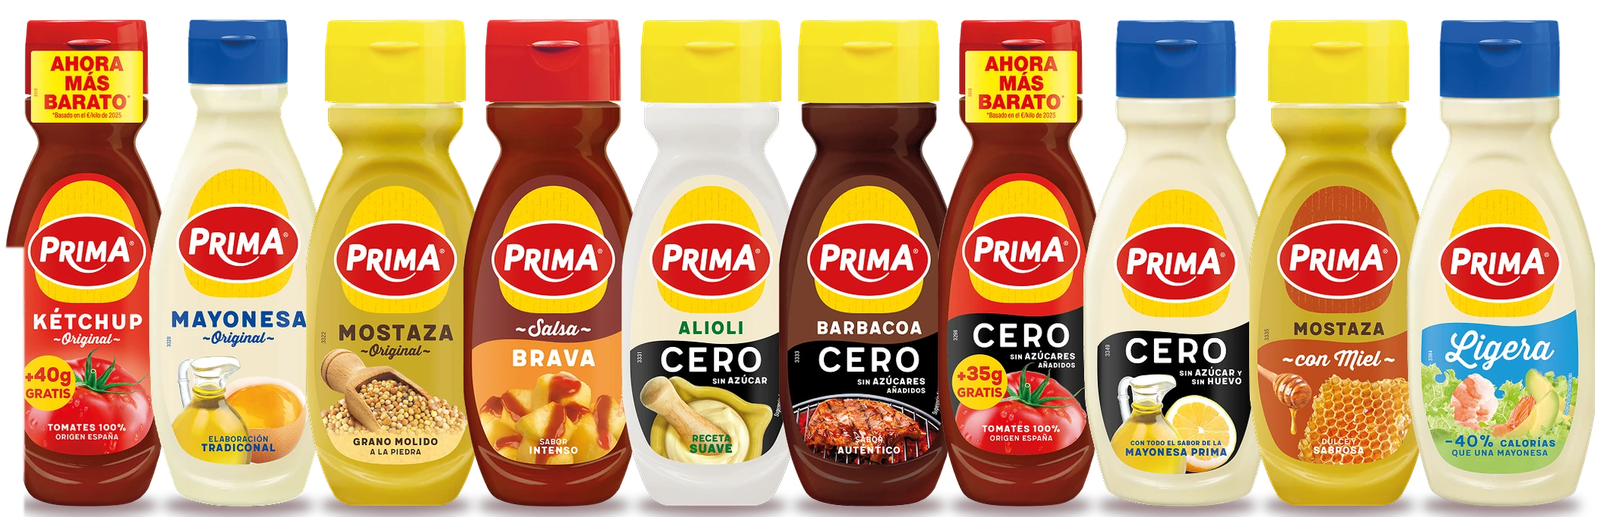
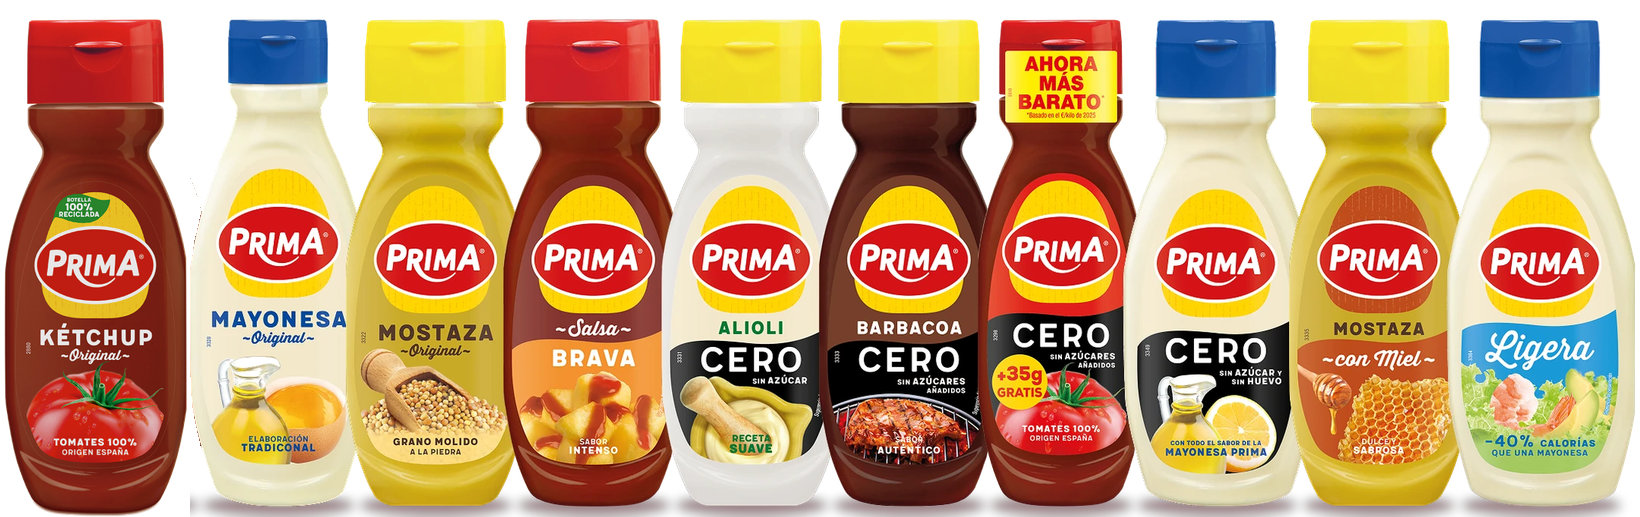
Despensa: el bote de kétchup Prima de la gama ya sale entero (foto oficial de Prima en lugar del bote cortado)
Claude-Session: https://claude.ai/code/session_01TfVuY2sTVvMwp4RqzYabW2

diff --git a/despensa-products.js b/despensa-products.js
@@ -61,7 +61,7 @@ window.ProductWorld.init({
       bodegon: {image:'assets/despensa/prima/prima-bodegon-hosteleria.png', width:1055, height:406, alt:'Formatos de hostelería de Prima: salsa brava y kétchup de 1,8 kg en botella, y cubos de alioli, cheddar y mayonesa de 1,8, 2,9 y 4,4 kg'},
       bottom: '05 — Gama de salsas',
       logo: {image:D+'prima-logo.png', width:430, height:280, alt:'Prima'},
-      product: {name:'Gama de salsas Prima', image:D+'prima-gama.png', width:1600, height:517, wide:true, alt:'Gama de salsas Prima: mayonesas, kétchup, mostazas y otras salsas'}
+      product: {name:'Gama de salsas Prima', image:D+'prima-gama.png', width:1640, height:517, wide:true, alt:'Gama de salsas Prima: mayonesas, kétchup, mostazas y otras salsas'}
     },
     {
       template: 'range', family: 'Carbonell · Koipe', color: '#fff8e6', ink: '#1f6b43',

diff --git a/despensa.html b/despensa.html
@@ -75,7 +75,7 @@
   <script src="precios.js?v=e91f9a24" defer></script>
   <script src="helios-products.js?v=f04d219c" defer></script>
   <script src="villacampo-products.js?v=f27cd79b" defer></script>
-  <script src="despensa-products.js?v=bb6b060d" defer></script>
+  <script src="despensa-products.js?v=557ee09b" defer></script>
 <script src="site-header.js?v=9aa16ac1" defer></script>
 <script src="cookies.js?v=a255d7c1" defer></script>
 <script src="estadisticas.js?v=30c3e111" defer></script>
